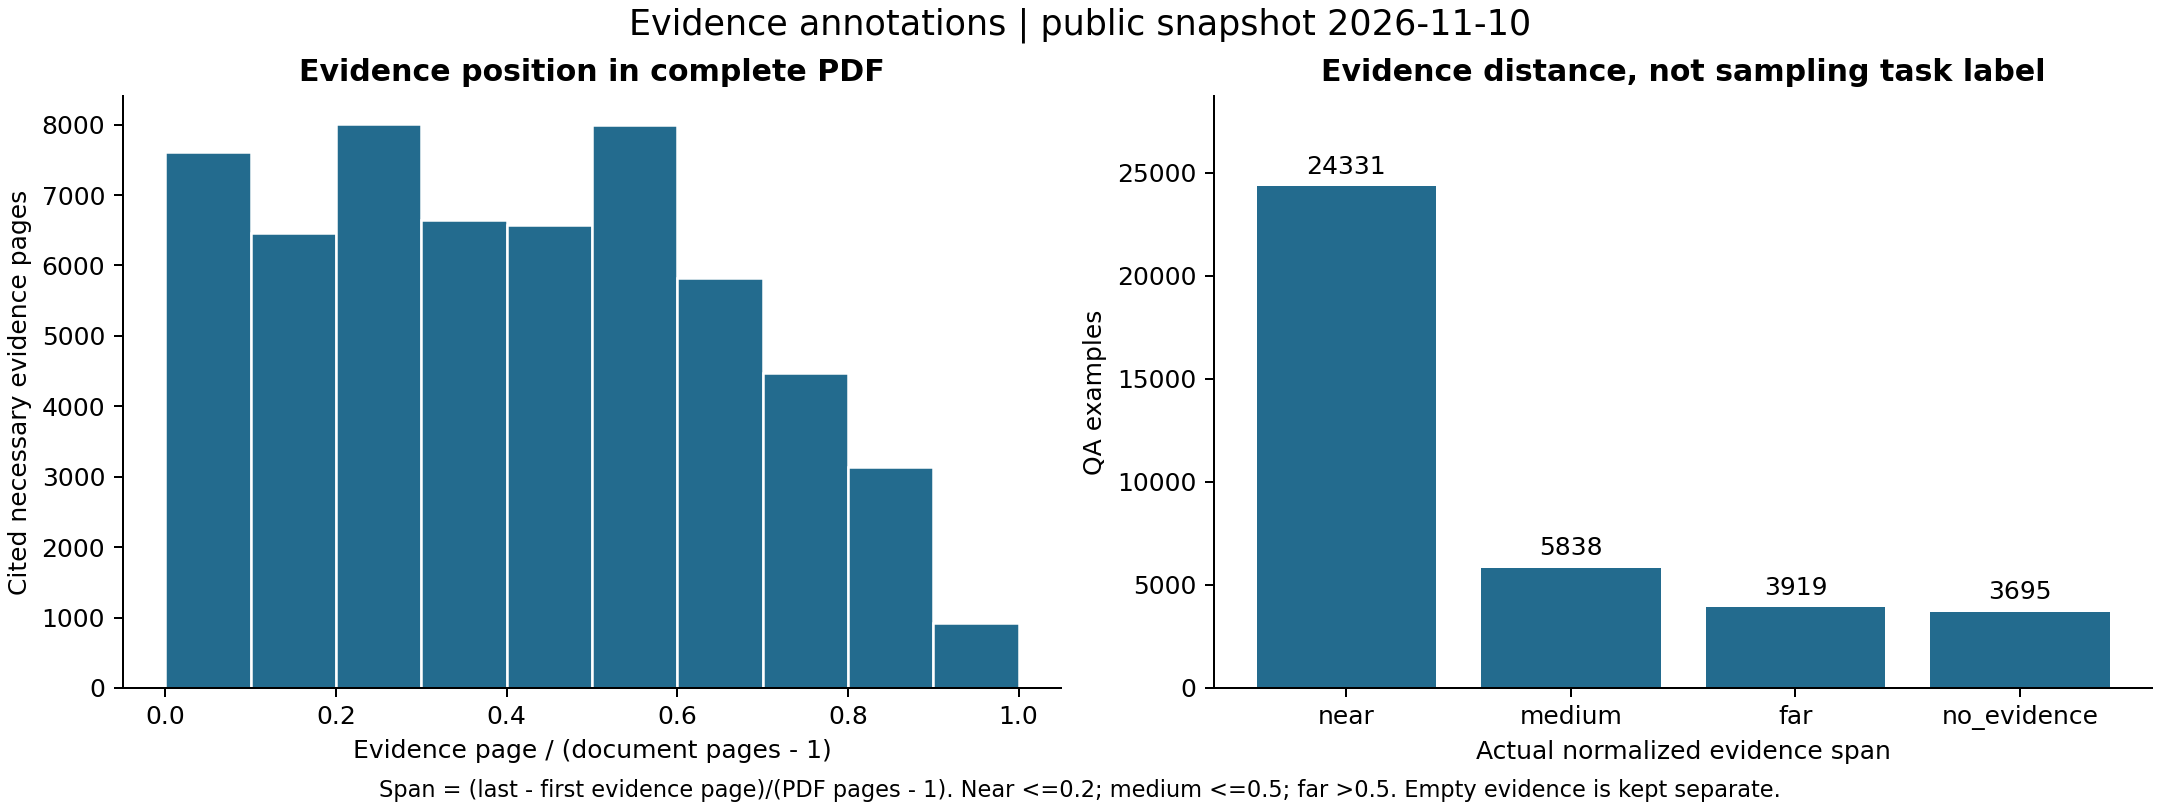
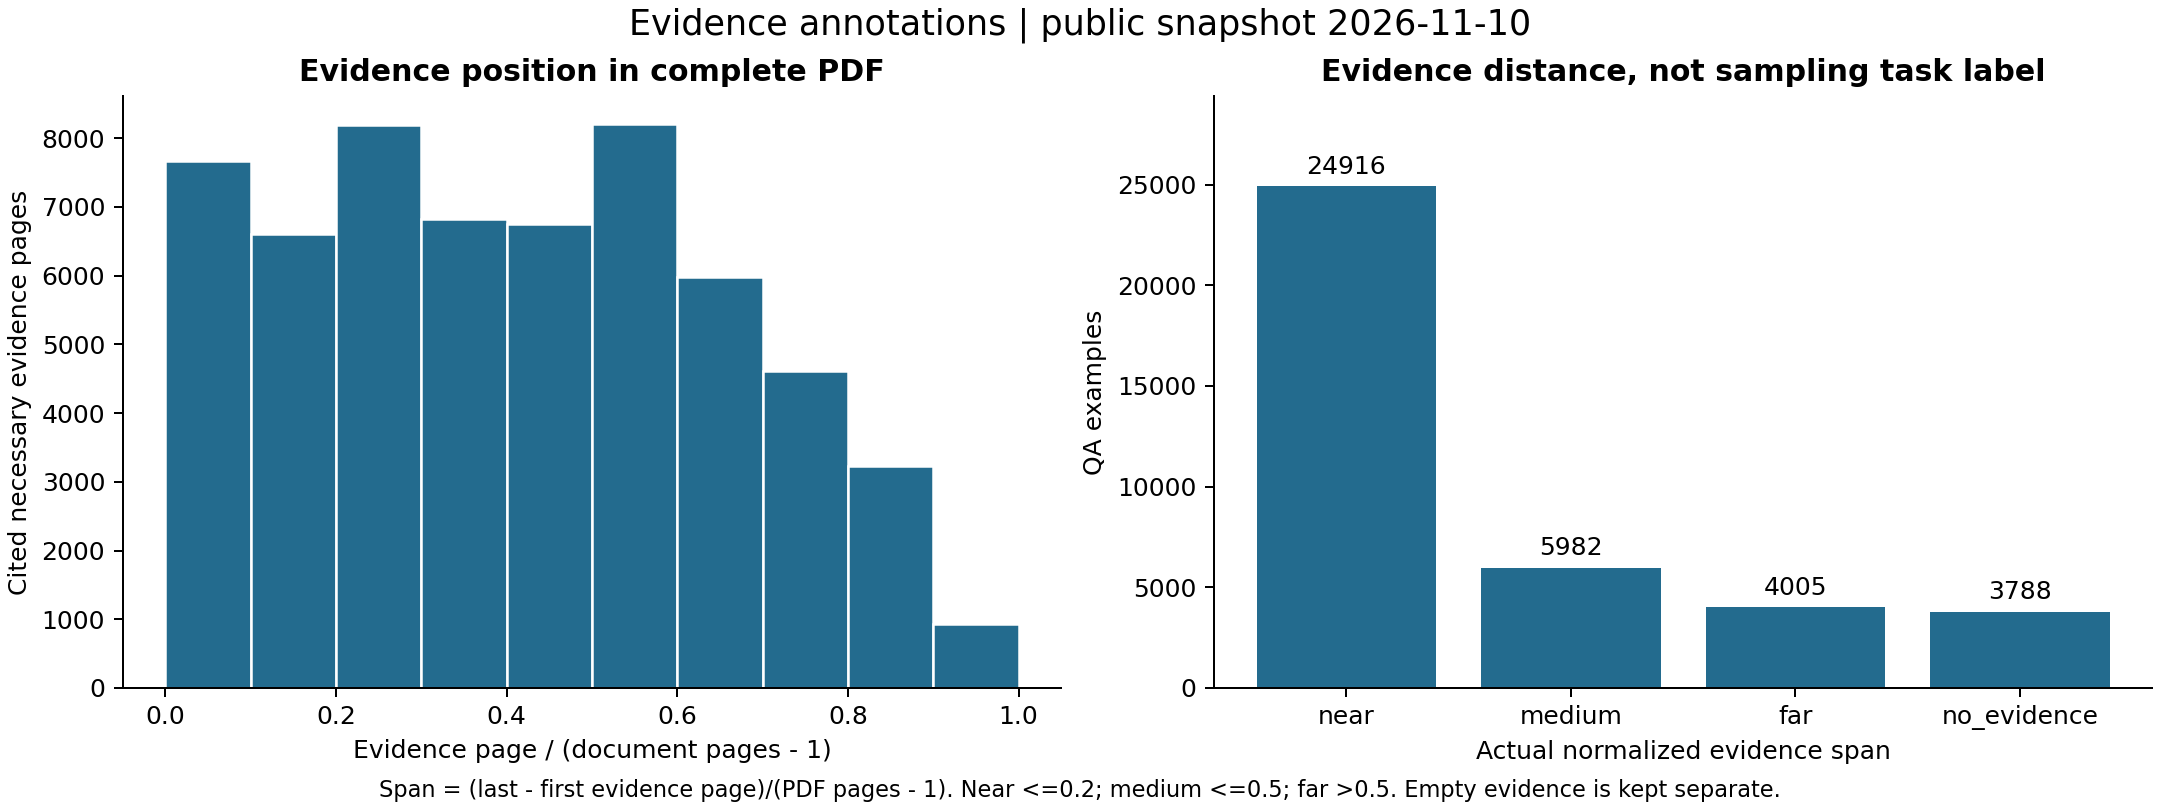
Update public corpus statistics to 2.314B measured tokens

diff --git a/docs/public_dataset.md b/docs/public_dataset.md
@@ -13,26 +13,26 @@ This page describes the admitted public snapshot identified below. It is a separ
 The manuscript defines binary prefixes (K=1024, B=2^30). Public tables use decimal K=1,000 and B=1,000,000,000; the >=100Ki statistic uses 102,400 to match the paper threshold. Exact raw counts and per-document labels are published with the dataset.
 
 <!-- PUBLIC_CORPUS_STATS_START -->
-**Public snapshot (2026-11-10): 37,783 QA examples, 7,450 source PDFs, 169,520 unique page images, and 2,266,988,794 estimated training tokens (approximately 2.267B).**
+**Public snapshot (2026-11-10): 38,691 QA examples, 7,947 source PDFs, 179,704 unique page images, and 2,314,394,982 estimated training tokens (approximately 2.314B).**
 
-[This published snapshot](https://huggingface.co/datasets/ZhaoweiWang/MMProLong-Data-Public/tree/e3038ec88dcd8939afb35d8c41555d52ef2673d3); [latest data](https://huggingface.co/datasets/ZhaoweiWang/MMProLong-Data-Public).
+[This published snapshot](https://huggingface.co/datasets/ZhaoweiWang/MMProLong-Data-Public/tree/c6a7a67b297ee03f2ec6dccee61d0159f85288e6); [latest data](https://huggingface.co/datasets/ZhaoweiWang/MMProLong-Data-Public).
 
 ### Corpus scale
 
 | Statistic | Public snapshot value |
 | --- | --- |
-| Admitted unique PDFs | 7,450 |
+| Admitted unique PDFs | 7,947 |
 | Document family | Public research papers |
-| Unique rendered page images | 169,520 |
-| Document pages: mean / median | 22.75 / 21 |
+| Unique rendered page images | 179,704 |
+| Document pages: mean / median | 22.61 / 20 |
 | Document pages: range / 5th-95th percentile | 14-50 / 14-39 |
-| Admitted QA examples | 37,783 |
-| Estimated training tokens | 2,266,988,794 (2.267B) |
-| Per-QA tokens: mean / median | 60.000K / 53.296K |
+| Admitted QA examples | 38,691 |
+| Estimated training tokens | 2,314,394,982 (2.314B) |
+| Per-QA tokens: mean / median | 59.817K / 53.283K |
 | Observed token range | 33,547-125,503 |
-| At least 100,000 tokens | 2,618 (6.93%) |
-| At least 100Ki = 102,400 tokens (paper threshold) | 2,198 (5.82%) |
-| Page references across all QA contexts | 892,361 |
+| At least 100,000 tokens | 2,624 (6.78%) |
+| At least 100Ki = 102,400 tokens (paper threshold) | 2,204 (5.70%) |
+| Page references across all QA contexts | 911,047 |
 
 ### Document sources
 
@@ -40,7 +40,7 @@ The manuscript defines binary prefixes (K=1024, B=2^30). Public tables use decim
 | --- | --- |
 | arxiv | 4,386 |
 | elife | 20 |
-| plos | 3,044 |
+| plos | 3,541 |
 
 Tokens are the stored Qwen2.5-VL serialized-sample estimate, including full page-image context and QA/prompt text. A PDF used by several questions contributes its context repeatedly to the training-token total. This is not a count of unique-text tokens or billed API tokens. Page images are physically stored once per document.
 
@@ -50,12 +50,12 @@ Tokens are the stored Qwen2.5-VL serialized-sample estimate, including full page
 
 | Task | QA | Avg. pages | Avg. K tokens | B tokens | Pages | K-token range | >=100Ki |
 | --- | --- | --- | --- | --- | --- | --- | --- |
-| `single` | 13,689 | 23.49 | 59.64 | 0.816 | 14-50 | 33.80-125.13 | 5.76% |
-| `multi_local` | 6,752 | 23.72 | 60.33 | 0.407 | 14-50 | 33.85-125.50 | 5.78% |
-| `multi_distributed` | 6,818 | 23.55 | 59.87 | 0.408 | 14-50 | 33.84-125.29 | 5.82% |
-| `reasoning` | 6,829 | 23.55 | 59.78 | 0.408 | 14-50 | 33.55-125.11 | 5.54% |
-| `unanswerable` | 3,695 | 24.18 | 61.38 | 0.227 | 14-50 | 33.79-125.09 | 6.60% |
-| **Total** | 37,783 | 23.62 | 60.00 | 2.267 | 14-50 | 33.55-125.50 | 5.82% |
+| `single` | 14,017 | 23.41 | 59.45 | 0.833 | 14-50 | 33.80-125.13 | 5.64% |
+| `multi_local` | 6,914 | 23.67 | 60.19 | 0.416 | 14-50 | 33.85-125.50 | 5.66% |
+| `multi_distributed` | 6,983 | 23.48 | 59.68 | 0.417 | 14-50 | 33.84-125.29 | 5.70% |
+| `reasoning` | 6,989 | 23.48 | 59.61 | 0.417 | 14-50 | 33.55-125.11 | 5.44% |
+| `unanswerable` | 3,788 | 24.07 | 61.12 | 0.232 | 14-50 | 33.79-125.09 | 6.47% |
+| **Total** | 38,691 | 23.55 | 59.82 | 2.314 | 14-50 | 33.55-125.50 | 5.70% |
 
 `K = 1,000`, `B = 1,000,000,000`; `100Ki = 102,400` tokens. Average pages in this table are **QA-weighted**, whereas the corpus-scale document average counts each PDF once. The two multi-page rows may be combined for comparison with the paper's broader extraction category. Unanswerable QA is an additional public-data task. Exact values, quantiles, and the combined task grouping are in [`metadata/statistics.json`](https://huggingface.co/datasets/ZhaoweiWang/MMProLong-Data-Public/blob/main/metadata/statistics.json).
 
@@ -65,17 +65,17 @@ Tokens are the stored Qwen2.5-VL serialized-sample estimate, including full page
 
 | Primary domain | Documents | Document share | QA | QA share |
 | --- | --- | --- | --- | --- |
-| Physics | 1,322 | 17.74% | 9,284 | 24.57% |
-| Mathematics | 1,235 | 16.58% | 8,823 | 23.35% |
-| Computer Science | 1,229 | 16.50% | 9,119 | 24.14% |
-| Biology | 716 | 9.61% | 1,457 | 3.86% |
-| Medicine | 659 | 8.85% | 1,561 | 4.13% |
-| Economics | 638 | 8.56% | 1,651 | 4.37% |
-| Social Science | 636 | 8.54% | 1,640 | 4.34% |
-| Engineering | 629 | 8.44% | 3,153 | 8.35% |
-| Earth Science | 365 | 4.90% | 994 | 2.63% |
-| Language and Literature | 12 | 0.16% | 43 | 0.11% |
-| Other | 9 | 0.12% | 58 | 0.15% |
+| Physics | 1,323 | 16.65% | 9,286 | 24.00% |
+| Computer Science | 1,250 | 15.73% | 9,159 | 23.67% |
+| Mathematics | 1,236 | 15.55% | 8,825 | 22.81% |
+| Biology | 837 | 10.53% | 1,668 | 4.31% |
+| Medicine | 773 | 9.73% | 1,769 | 4.57% |
+| Economics | 716 | 9.01% | 1,797 | 4.64% |
+| Social Science | 706 | 8.88% | 1,770 | 4.57% |
+| Engineering | 696 | 8.76% | 3,278 | 8.47% |
+| Earth Science | 388 | 4.88% | 1,036 | 2.68% |
+| Language and Literature | 13 | 0.16% | 45 | 0.12% |
+| Other | 9 | 0.11% | 58 | 0.15% |
 
 Document and QA shares differ because historical phases generated different numbers of questions per PDF. Domain labels describe the source PDF, not a separate topic inferred for each question.
 
@@ -83,21 +83,21 @@ Document and QA shares differ because historical phases generated different numb
 
 | Answer format | QA | Share |
 | --- | --- | --- |
-| Integer | 5,668 | 15.00% |
-| Float | 2,423 | 6.41% |
-| List | 12,928 | 34.22% |
-| String | 13,069 | 34.59% |
-| Unanswerable | 3,695 | 9.78% |
+| Integer | 5,789 | 14.96% |
+| Float | 2,566 | 6.63% |
+| List | 13,302 | 34.38% |
+| String | 13,246 | 34.24% |
+| Unanswerable | 3,788 | 9.79% |
 
-There are **34,088 answerable** and **3,695 unanswerable** QA examples. The observed necessary-evidence page counts are: 0 pages: 3,695, 1 pages: 17,198, 2 pages: 11,408, 3 pages: 4,329, 4 pages: 1,145, 5 pages: 5, 6 pages: 2, 7 pages: 1.
+There are **34,903 answerable** and **3,788 unanswerable** QA examples. The observed necessary-evidence page counts are: 0 pages: 3,788, 1 pages: 17,597, 2 pages: 11,714, 3 pages: 4,401, 4 pages: 1,181, 5 pages: 6, 6 pages: 3, 7 pages: 1.
 
 <details>
 <summary>Observed QA count per source document</summary>
 
 | QA per document | Documents |
 | --- | --- |
-| 1 | 827 |
-| 2 | 4,216 |
+| 1 | 913 |
+| 2 | 4,627 |
 | 6 | 1 |
 | 8 | 1 |
 | 9 | 7 |
@@ -115,8 +115,8 @@ The 20-QA documents belong to the initial pilot; the two-QA limit applies to the
 | Recorded method | QA |
 | --- | --- |
 | legacy_full_document | 32,432 |
-| released_prompt_window_v1 | 3,347 |
-| document_tool_agent_v1 | 2,004 |
+| released_prompt_window_v1 | 3,915 |
+| document_tool_agent_v1 | 2,344 |
 
 ### Domain-label provenance
 
@@ -125,15 +125,15 @@ The 20-QA documents belong to the initial pilot; the two-QA limit applies to the
 | majority of full-context generator domain labels | 4,330 |
 | arXiv primary category mapping | 113 |
 | manual primary-topic classification for validated pilot batches | 9 |
-| majority of independent full-document verifier topic labels | 2,921 |
-| Crossref subject-query sampling; provisional until generator topic vote | 77 |
+| majority of independent full-document verifier topic labels | 3,408 |
+| Crossref subject-query sampling; provisional until generator topic vote | 87 |
 
 ## Document language
 
 | Estimated document language | Documents | Document share | Associated QA |
 | --- | --- | --- | --- |
-| English (`en`) | 7,445 | 99.933% | 37,743 |
-| Spanish (`es`) | 2 | 0.027% | 14 |
+| English (`en`) | 7,942 | 99.937% | 38,651 |
+| Spanish (`es`) | 2 | 0.025% | 14 |
 | French (`fr`) | 1 | 0.013% | 2 |
 | Russian (`ru`) | 1 | 0.013% | 12 |
 | Chinese (`zh`) | 1 | 0.013% | 12 |
@@ -144,14 +144,14 @@ Language labels are automatic estimates from sampled embedded PDF text; non-Engl
 
 | Recorded generation model | Documents | QA | QA share | B training tokens |
 | --- | --- | --- | --- | --- |
-| `gpt-5.5-2026-04-24` | 2,407 | 28,524 | 75.49% | 1.745 |
-| `gpt-5.6-sol` | 5,043 | 9,259 | 24.51% | 0.522 |
+| `gpt-5.5-2026-04-24` | 2,407 | 28,524 | 73.72% | 1.745 |
+| `gpt-5.6-sol` | 5,540 | 10,167 | 26.28% | 0.570 |
 
 | Phase | Documents | QA | Maximum QA per document |
 | --- | --- | --- | --- |
 | Initial pilot (GPT-5.5) | 4 | 80 | 20 |
 | GPT-5.5 production | 2,403 | 28,444 | 12 |
-| Current GPT-5.6 production | 5,043 | 9,259 | 2 |
+| Current GPT-5.6 production | 5,540 | 10,167 | 2 |
 
 The current snapshot is a **mixed-model historical release**, not an all-GPT-5.6 corpus. Use the `model` field when a model-specific subset is required.
 

diff --git a/README.md b/README.md
@@ -40,7 +40,7 @@ Please check out the [paper](https://arxiv.org/abs/2605.13831) for the study and
 ## 📢 Latest Updates
 
 <!-- PUBLIC_CORPUS_SUMMARY_START -->
-**Public snapshot (2026-11-10): 37,783 QA examples, 7,450 source PDFs, 169,520 unique page images, and 2,266,988,794 estimated training tokens (approximately 2.267B).**
+**Public snapshot (2026-11-10): 38,691 QA examples, 7,947 source PDFs, 179,704 unique page images, and 2,314,394,982 estimated training tokens (approximately 2.314B).**
 
 [Dataset](https://huggingface.co/datasets/ZhaoweiWang/MMProLong-Data-Public) | [Statistics](docs/public_dataset.md)
 <!-- PUBLIC_CORPUS_SUMMARY_END -->
